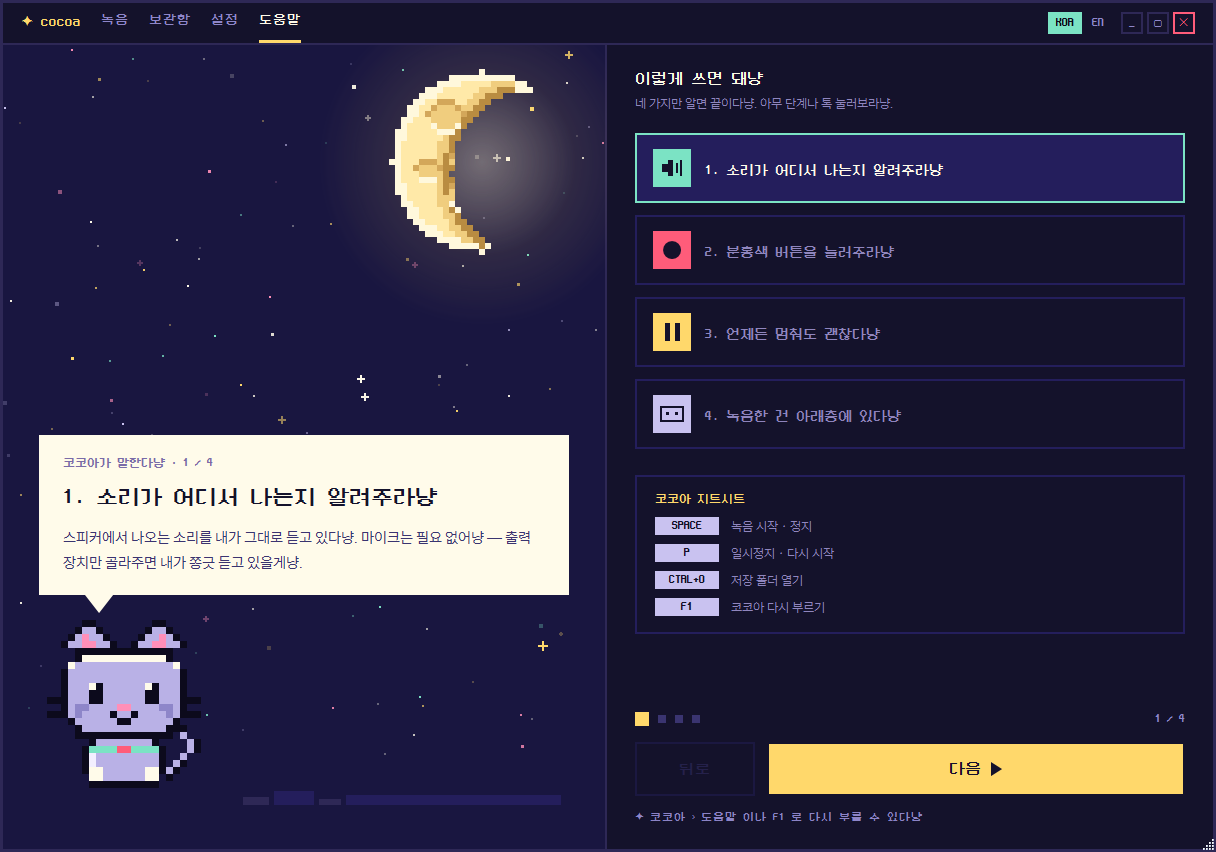
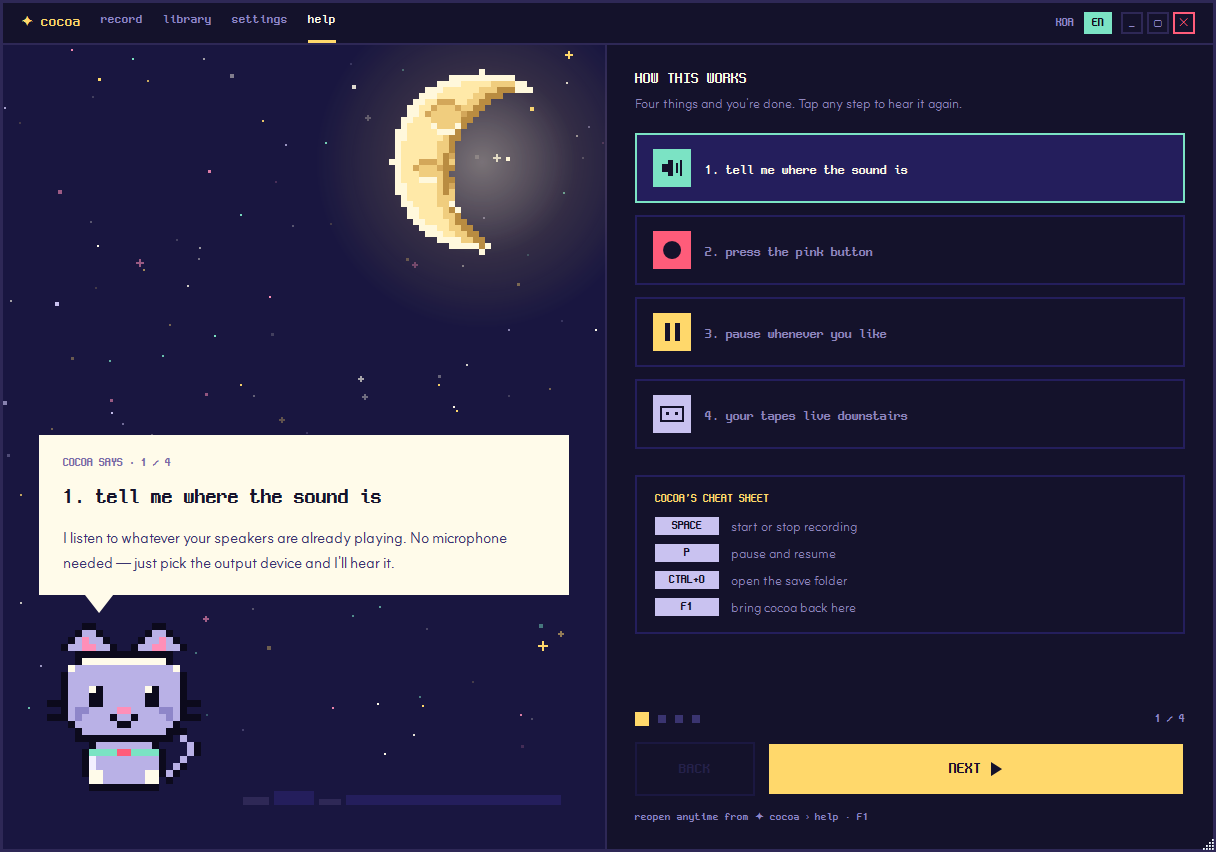
Shoot the guided tour in the language each README is written in
The English README was showing a Korean help screen — the shot was taken
right after toggling to Korean for the other screenshot. It now has an
English one, and the Korean README gets its own instead of going without.

diff --git a/README.ko.md b/README.ko.md
@@ -12,6 +12,10 @@
 
 ![코코아 레코더 — 한국어 UI](assets/screenshot-ko.png)
 
+<sub>코코아가 네 단계로 직접 설명해 줍니다 — 언제든 F1.</sub>
+
+![코코아 레코더 — 도움말 투어](assets/screenshot-help-ko.png)
+
 ![.NET 9](https://img.shields.io/badge/.NET-9.0-512BD4?style=flat-square)
 ![WPF](https://img.shields.io/badge/UI-WPF-1f6feb?style=flat-square)
 ![Windows](https://img.shields.io/badge/OS-Windows-0078D4?style=flat-square)
